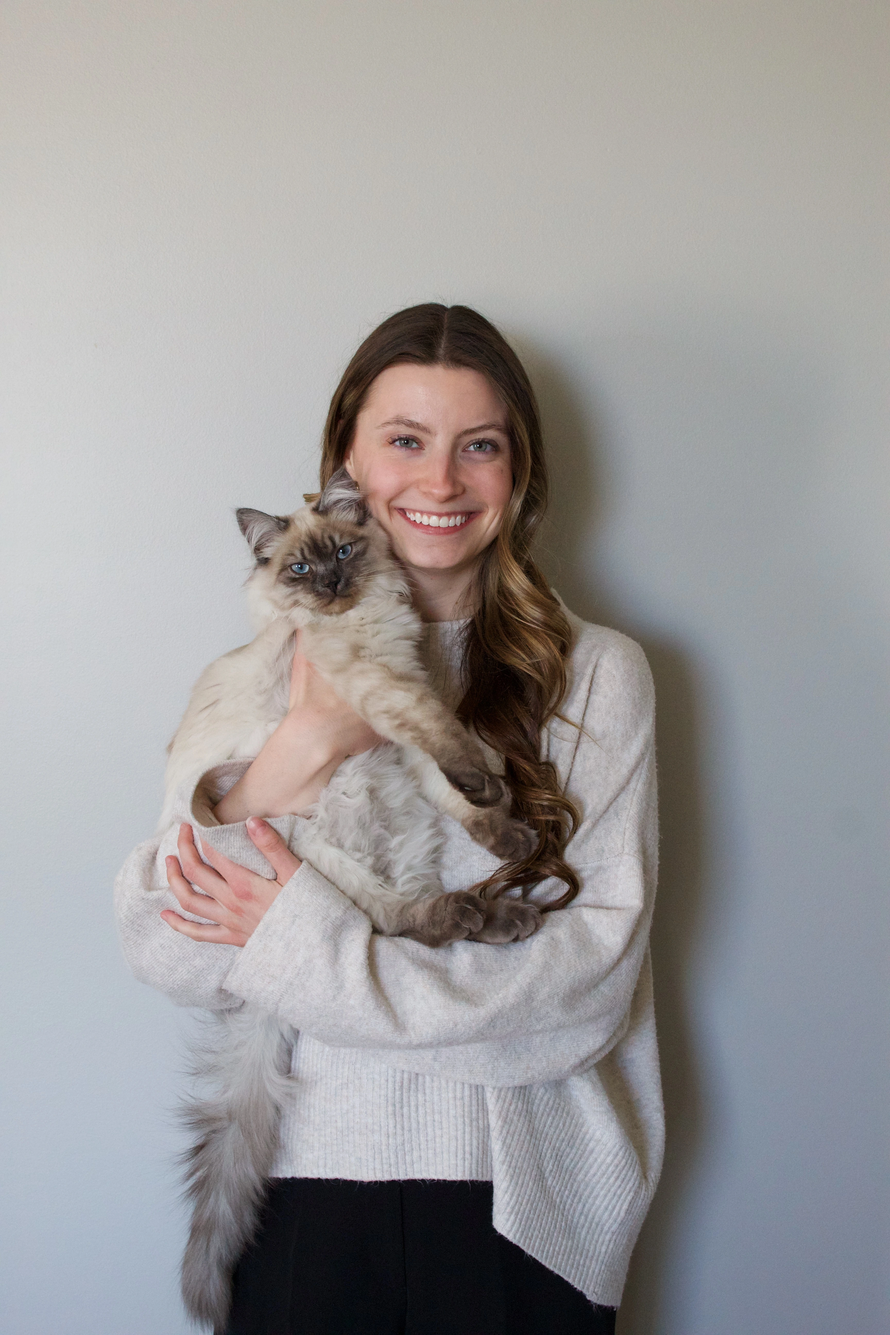
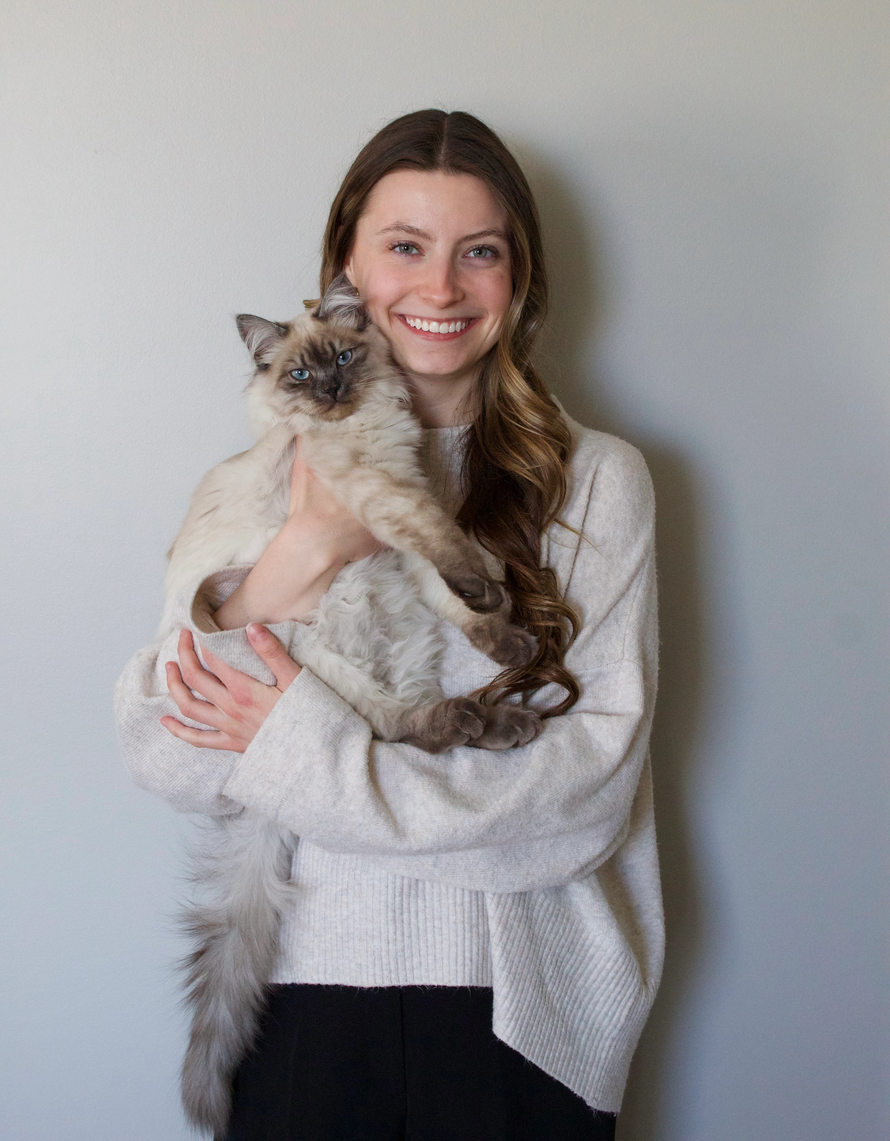
added more to my contact page and changed coloring

Changed region(s): [[0.1562, 0.0934, 0.8438, 0.9966], [0.1875, 0.4049, 0.25, 0.4983]]

diff --git a/styles/style.css b/styles/style.css
@@ -414,7 +414,7 @@ main {
 }
 
 .close:hover {
-  color: #187c80;
+  color: #b7d0dc;
 }
 
 /* about page */
@@ -543,7 +543,7 @@ main {
 }
 
 .video-close:hover {
-  color: #187c80;
+  color: #b7d0dc;
 }
 
 .experience-page {
@@ -590,7 +590,7 @@ main {
 }
 
 .experience-info {
-  background-color: #187c80;
+  background-color: #b7d0dc;
   color: white;
   font-family: 'Playfair Display', serif;
   text-align: center;
@@ -617,72 +617,81 @@ main {
 }
 
 
-/* ENTIRE SECTION */
+
+
 .contact-section {
-    display: flex;
+     display: flex;
+    align-items: center;
     justify-content: center;
-    align-items: flex-start;
-    gap: 90px;
-
-    max-width: 1400px;
-
-    margin: 120px auto;
-    padding: 0 80px;
-    padding-top: 85px;
+    gap: 50px; /* controls space between image and text */
+    padding: 80px;
+    padding-top: 205px;
 }
 
-/* LEFT IMAGE */
-.contact-image img {
-    width: 400px; 
-    height: 490px;
+.contact-image {
+    flex-shrink: 0;
+}
 
+.contact-image img {
+    width: 380px;  /* adjust size */
+    height: auto;
     border: 5px solid #b7d0dc;
     border-radius: 20px;    
     box-shadow: 0 10px 30px rgba(0,0,0,0.15);
-
-    object-fit: cover;
 }
 
-/* RIGHT SIDE */
 .contact-content {
-    max-width: 600px;
-
     display: flex;
     flex-direction: column;
-    justify-content: center;
+    align-items: flex-start;
+    max-width: 750px;
 }
 
-/* TITLE */
 .contact-content h1 {
-    font-size: 3.3rem;
-    font-weight: 350;
+    font-size: 3.5rem;
     margin-bottom: 25px;
+    font-weight: 500;
+    font-family: "Quicksand", sans-serif;
 }
 
-/* SMALL TEXT */
 .subtitle {
-    font-size: 1.8rem;
-    margin-bottom: 45px;
-    font-weight: 440;
+    font-size: 2rem;
+    margin-bottom: 60px;
+    font-family: "Quicksand", sans-serif;
+    font-weight: 500;
 }
 
-/* LINKS */
+.email-line {
+    font-size: 2rem;
+    margin-bottom: 60px;
+    font-family: "Quicksand", sans-serif;
+    font-weight: 500;
+}
+
+.email-line span,
+.check-line {
+    color: #040F16;
+    font-weight: 600;
+    font-family: "Quicksand", sans-serif;
+}
+
+.check-line {
+    font-size: 2rem;
+    margin-bottom: 35px;
+    font-family: "Quicksand", sans-serif;
+}
+
 .contact-links {
     display: flex;
-    gap: 55px;
-    margin-bottom: 35px;
+    gap: 60px;
 }
 
 .contact-links a {
-    font-size: 1.9rem;
+    font-size: 2rem;
     color: black;
     text-decoration: underline;
-}
-
-/* EMAIL */
-.email {
-    font-size: 2rem;
-    margin-bottom: 55px;
+    font-family: "Quicksand", sans-serif;
+    font-weight: 500;
 }
 
 

diff --git a/contact.html b/contact.html
@@ -57,29 +57,28 @@
 		<!-- Contact Section -->
 		<section class="contact-section">
 
-		<!-- LEFT SIDE -->
-		<div class="contact-image">
-			<img src="images/mescout.webp" alt="Alese">
-		</div>
-
-		<!-- RIGHT SIDE -->
-		<div class="contact-content">
-
-			<h1>I’d love to hear from you!</h1>
-
-			<p class="subtitle">And so would Scout :)</p>
-
-			<div class="contact-links">
-				<a href="#">LinkedIn</a>
-				<a href="#">Resume</a>
-				<a href="#">Portfolio</a>
+			<div class="contact-image">
+				<img src="images/mescout.webp" alt="Alese with Scout">
 			</div>
 
-			<p class="email">aleseklempke@gmail.com</p>
+			<div class="contact-content">
+				<h1>I’d love to hear from you!</h1>
+				<p class="subtitle">And so would Scout!</p>
 
-		</div>
+				<p class="email-line">
+					<span>Email me:</span> aleseklempke@gmail.com
+				</p>
 
-	</section>
+				<p class="check-line">OR check out my:</p>
+
+				<div class="contact-links">
+					<a href="#">LinkedIn</a>
+					<a href="#">Resume</a>
+					<a href="#">Portfolio</a>
+				</div>
+			</div>
+
+		</section>
 
 		<footer class="site-footer">
 			<div class="footer-content">
